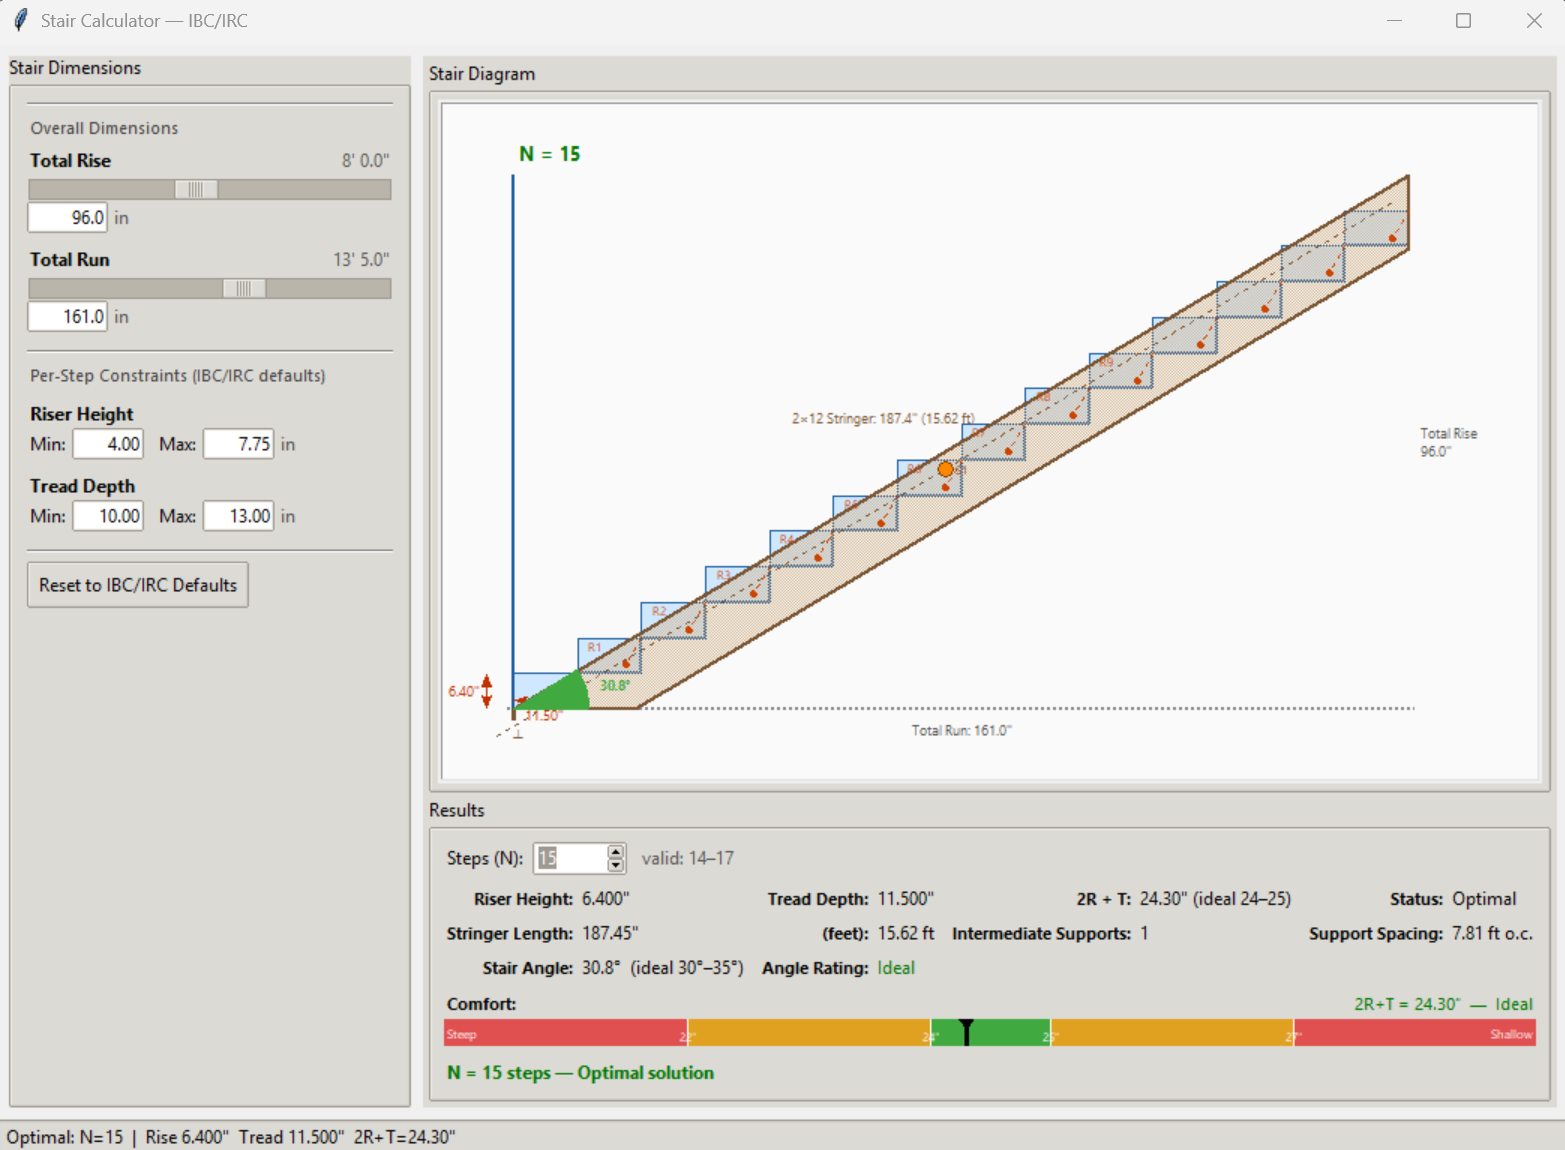
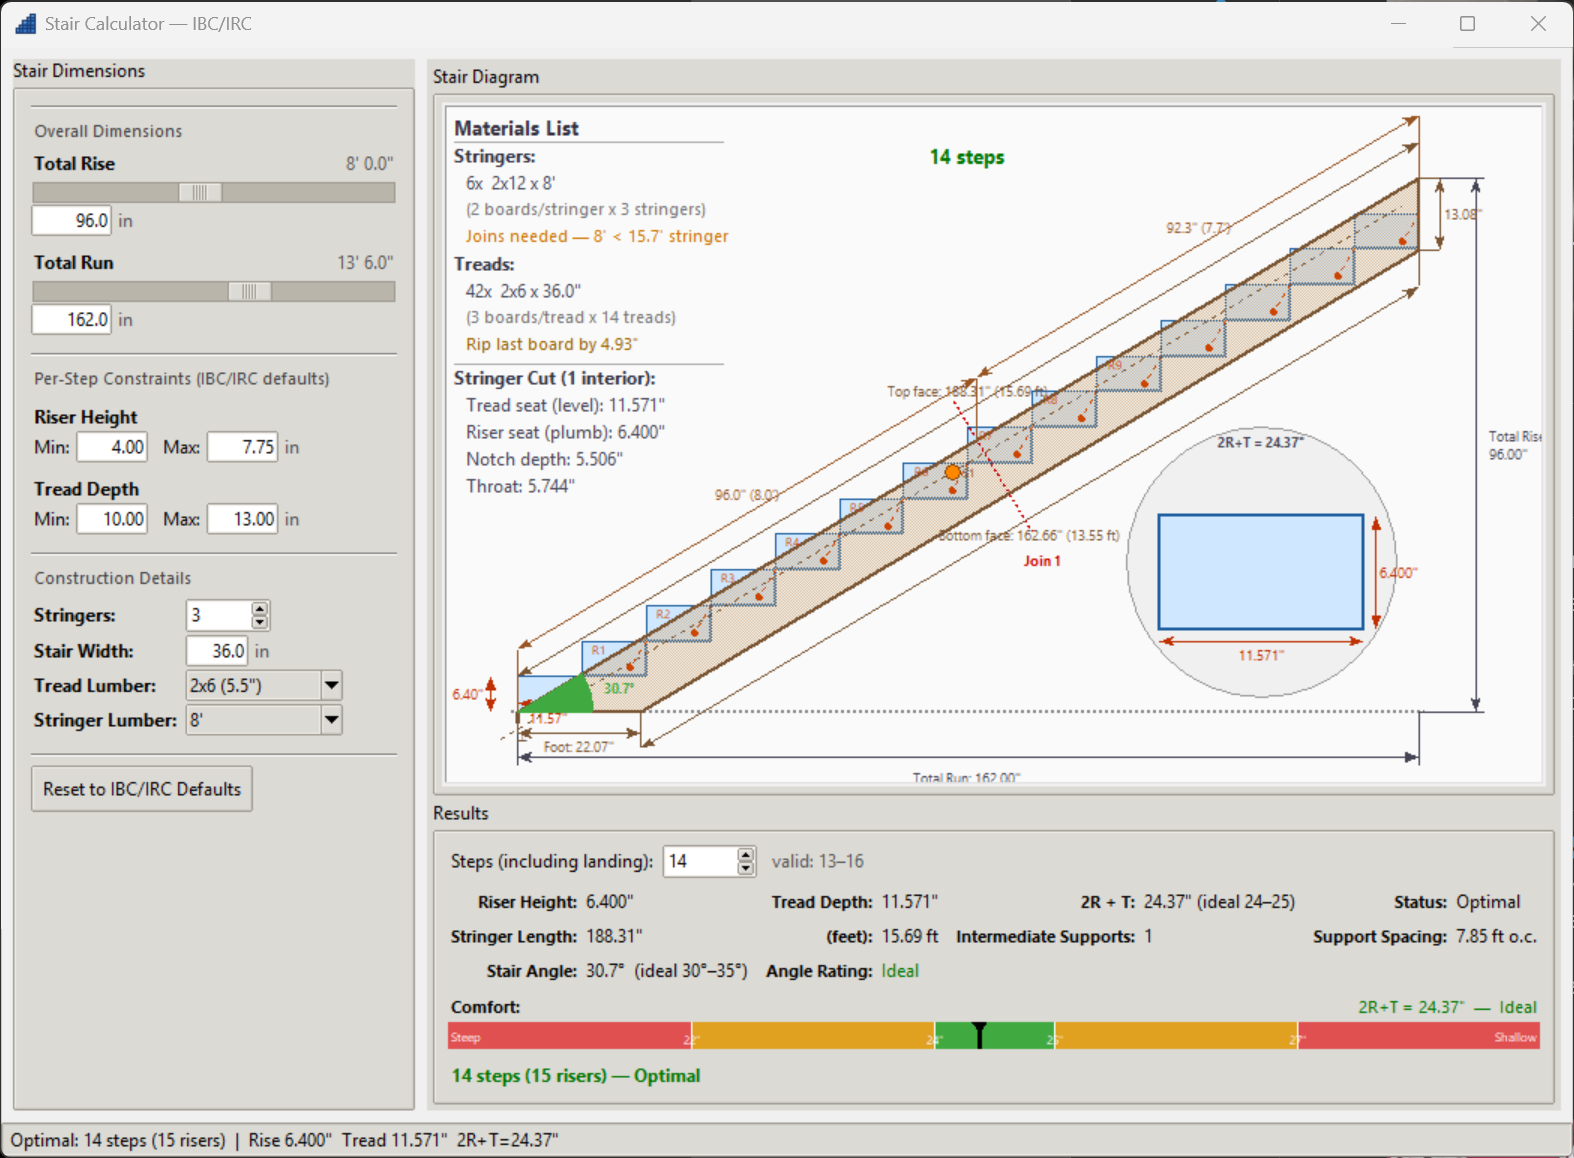
Add single-instance mutex, fix board join markers, and update screenshot
- Enforce single instance via Windows named mutex; re-launch brings
  existing window to front instead of opening a duplicate
- Fix bottom-face stringer dimension to use actual geometry instead of
  reusing total stringer length
- Improve board join markers: true perpendicular lines with overhang
  and per-segment dimension callouts along the stringer
- Add launch.bat and app icon
- Update README with board join and single-instance features
- Update screenshot

diff --git a/panels/results_panel.py b/panels/results_panel.py
@@ -688,6 +688,9 @@ class ResultsPanel(ttk.Frame):
                       font=("Segoe UI", 7), anchor="w")
 
         # --- Side 3: bottom face P2→P3 (offset straight down in canvas) ---
+        import math as _m3
+        bot_face_in = _m3.sqrt((total_run - BW_div_sin)**2 + (total_rise - BW_div_cos)**2)
+        bot_face_ft = bot_face_in / 12.0
         bfd_x0, bfd_y0 = P3cx, P3cy + sdim_gap
         bfd_x1, bfd_y1 = P2cx, P2cy + sdim_gap
         c.create_line(P3cx, P3cy, bfd_x0, bfd_y0, fill=str_col, width=1)
@@ -695,7 +698,7 @@ class ResultsPanel(ttk.Frame):
         c.create_line(bfd_x0, bfd_y0, bfd_x1, bfd_y1, arrow=tk.BOTH, fill=str_col, width=1)
         bfd_mx, bfd_my = (bfd_x0 + bfd_x1) / 2, (bfd_y0 + bfd_y1) / 2
         c.create_text(bfd_mx, bfd_my + 6,
-                      text=f"Bottom face: {cfg.stringer_length:.2f}\" ({sl_ft:.2f} ft)",
+                      text=f"Bottom face: {bot_face_in:.2f}\" ({bot_face_ft:.2f} ft)",
                       fill=str_col, font=("Segoe UI", 7), anchor="n")
 
         # --- Side 4: bottom foot P3→P0 (horizontal at ground, below) ---
@@ -814,31 +817,96 @@ class ResultsPanel(ttk.Frame):
         lumber_in = lumber_ft_val * 12.0
         if lumber_in > 0 and lumber_in < stringer_len_in:
             import math as _math
-            JOIN_COLOR = "#DD2200"
+            JOIN_COLOR = "#CC0000"
+            OVERHANG = 8.0  # inches beyond board edges for visibility
             n_joins = _math.ceil(stringer_len_in / lumber_in) - 1
+            # Canvas-space perpendicular to the stringer direction.
+            # along direction in canvas = (cos_a, -sin_a) (un-scaled).
+            # True perpendicular in canvas (rotated 90° CW) = (-(-sin_a), cos_a)
+            #   = (sin_a, cos_a) — but we want the one pointing "below" the
+            #   top face (toward the bottom face / ground side), so negate:
+            #   cross_dir = (-sin_a, -cos_a) per unit inch.
+            # We'll scale manually.
+            def cross(dist_in):
+                """Canvas-perpendicular to stringer, +ve = above top face."""
+                return -dist_in * sin_a * scale, -dist_in * cos_a * scale
+
             for ji in range(1, n_joins + 1):
                 d_in = ji * lumber_in  # distance along stringer from bottom
                 if d_in >= stringer_len_in:
                     break
-                # Physical position of the join on the top face
-                frac = d_in / stringer_len_in
-                join_phys_x = frac * total_run
-                join_phys_y = frac * total_rise
-                # Canvas position on top face
-                jt_cx, jt_cy = px(join_phys_x, join_phys_y)
-                # Bottom face: offset perpendicular by -BOARD_W_IN
-                jb_cx = jt_cx + perp(-BOARD_W_IN)[0]
-                jb_cy = jt_cy + perp(-BOARD_W_IN)[1]
-                # Draw the join line across the full board width
-                c.create_line(jt_cx, jt_cy, jb_cx, jb_cy,
+                # Position on the top face at distance d_in along the stringer
+                along_x, along_y = along(d_in)
+                tf_cx, tf_cy = px(0, 0)
+                tf_cx += along_x
+                tf_cy += along_y
+                # Line extends from above the top face to below the bottom face
+                # using true canvas perpendicular direction
+                ja_cx = tf_cx + cross(OVERHANG)[0]
+                ja_cy = tf_cy + cross(OVERHANG)[1]
+                jb_cx = tf_cx + cross(-BOARD_W_IN - OVERHANG)[0]
+                jb_cy = tf_cy + cross(-BOARD_W_IN - OVERHANG)[1]
+                # Draw the join line perpendicular across the board
+                c.create_line(ja_cx, ja_cy, jb_cx, jb_cy,
                               fill=JOIN_COLOR, width=2, dash=(6, 3))
-                # Label
-                lbl_cx = jb_cx + perp(-4)[0]
-                lbl_cy = jb_cy + perp(-4)[1]
+                # Label below bottom face
+                lbl_cx = tf_cx + cross(-BOARD_W_IN - OVERHANG - 4)[0]
+                lbl_cy = tf_cy + cross(-BOARD_W_IN - OVERHANG - 4)[1]
                 c.create_text(lbl_cx, lbl_cy,
                               text=f"Join {ji}",
-                              fill=JOIN_COLOR, font=("Segoe UI", 6, "bold"),
+                              fill=JOIN_COLOR, font=("Segoe UI", 7, "bold"),
                               anchor="n")
+
+            # ── Per-board segment dimensions along top face ──────────
+            # Build list of breakpoints along the stringer (inches from bottom end)
+            breaks = [0.0]
+            for ji in range(1, n_joins + 1):
+                d = ji * lumber_in
+                if d < stringer_len_in:
+                    breaks.append(d)
+            breaks.append(stringer_len_in)
+
+            BD_COLOR = "#995522"
+            # Offset further than the overall dim line (sdim_gap=24) so they
+            # don't overlap.  Use straight canvas-Y like the overall dims.
+            bd_gap = sdim_gap + 18
+
+            for si in range(len(breaks) - 1):
+                d0 = breaks[si]
+                d1 = breaks[si + 1]
+                seg_len = d1 - d0
+
+                # Endpoints on top face
+                a0x, a0y = along(d0)
+                a1x, a1y = along(d1)
+                base_x, base_y = px(0, 0)
+                t0x = base_x + a0x
+                t0y = base_y + a0y
+                t1x = base_x + a1x
+                t1y = base_y + a1y
+
+                # Dim line offset straight up in canvas (same direction as
+                # the overall top-face dim, but further out)
+                s0x, s0y = t0x, t0y - bd_gap
+                s1x, s1y = t1x, t1y - bd_gap
+
+                # Tick marks from top face to dim line
+                c.create_line(t0x, t0y, s0x, s0y, fill=BD_COLOR, width=1)
+                c.create_line(t1x, t1y, s1x, s1y, fill=BD_COLOR, width=1)
+
+                # Dimension line with arrows
+                c.create_line(s0x, s0y, s1x, s1y,
+                              arrow=tk.BOTH, fill=BD_COLOR, width=1)
+
+                # Label at midpoint, above the dim line
+                mx = (s0x + s1x) / 2
+                my = (s0y + s1y) / 2
+                seg_ft = seg_len / 12.0
+                lbl = f"{seg_len:.1f}\" ({seg_ft:.1f}')"
+                c.create_text(mx, my - 6,
+                              text=lbl, fill=BD_COLOR,
+                              font=("Segoe UI", 7),
+                              anchor="s")
 
         # ── Stair angle arc indicator ──────────────────────────────────
         # Draw a protractor-style arc at the bottom-left corner of the stair

diff --git a/main.py b/main.py
@@ -1,4 +1,34 @@
+import ctypes
+import sys
+
 from app import App
 
+MUTEX_NAME = "StairCalculator_SingleInstance_Mutex"
+WINDOW_TITLE = "Stair Calculator — IBC/IRC"
+
+
+def _bring_existing_to_front():
+    """Find the existing window and bring it to the foreground."""
+    user32 = ctypes.windll.user32
+    hwnd = user32.FindWindowW(None, WINDOW_TITLE)
+    if hwnd:
+        SW_RESTORE = 9
+        if user32.IsIconic(hwnd):
+            user32.ShowWindow(hwnd, SW_RESTORE)
+        user32.SetForegroundWindow(hwnd)
+
+
 if __name__ == "__main__":
-    App().run()
+    # Try to create a named mutex — if it already exists, another instance is running
+    kernel32 = ctypes.windll.kernel32
+    mutex = kernel32.CreateMutexW(None, False, MUTEX_NAME)
+    ERROR_ALREADY_EXISTS = 183
+    if kernel32.GetLastError() == ERROR_ALREADY_EXISTS:
+        _bring_existing_to_front()
+        sys.exit(0)
+
+    try:
+        App().run()
+    finally:
+        kernel32.ReleaseMutex(mutex)
+        kernel32.CloseHandle(mutex)

diff --git a/README.md b/README.md
@@ -25,6 +25,8 @@ A desktop stair calculator built with Python and tkinter that computes optimal s
   - **Step detail inset** — zoomed single-step view inscribed in the lower-right whitespace triangle (incircle positioning)
 - **Comfort gauge** — color-coded 2R+T bar (ideal 24"–25")
 - **Results summary** — riser, tread, 2R+T, stringer length/angle, support count/spacing
+- **Board join markers** — when selected lumber is shorter than the stringer, perpendicular join lines and per-segment dimension callouts are drawn along the stringer
+- **Single-instance enforcement** — only one window can run at a time; re-launching brings the existing window to front
 - **Settings persistence** — all inputs (dimensions, constraints, construction details) saved and restored on next launch
 - **Reset button** — one click back to IBC/IRC defaults (Ctrl+R shortcut)
 
